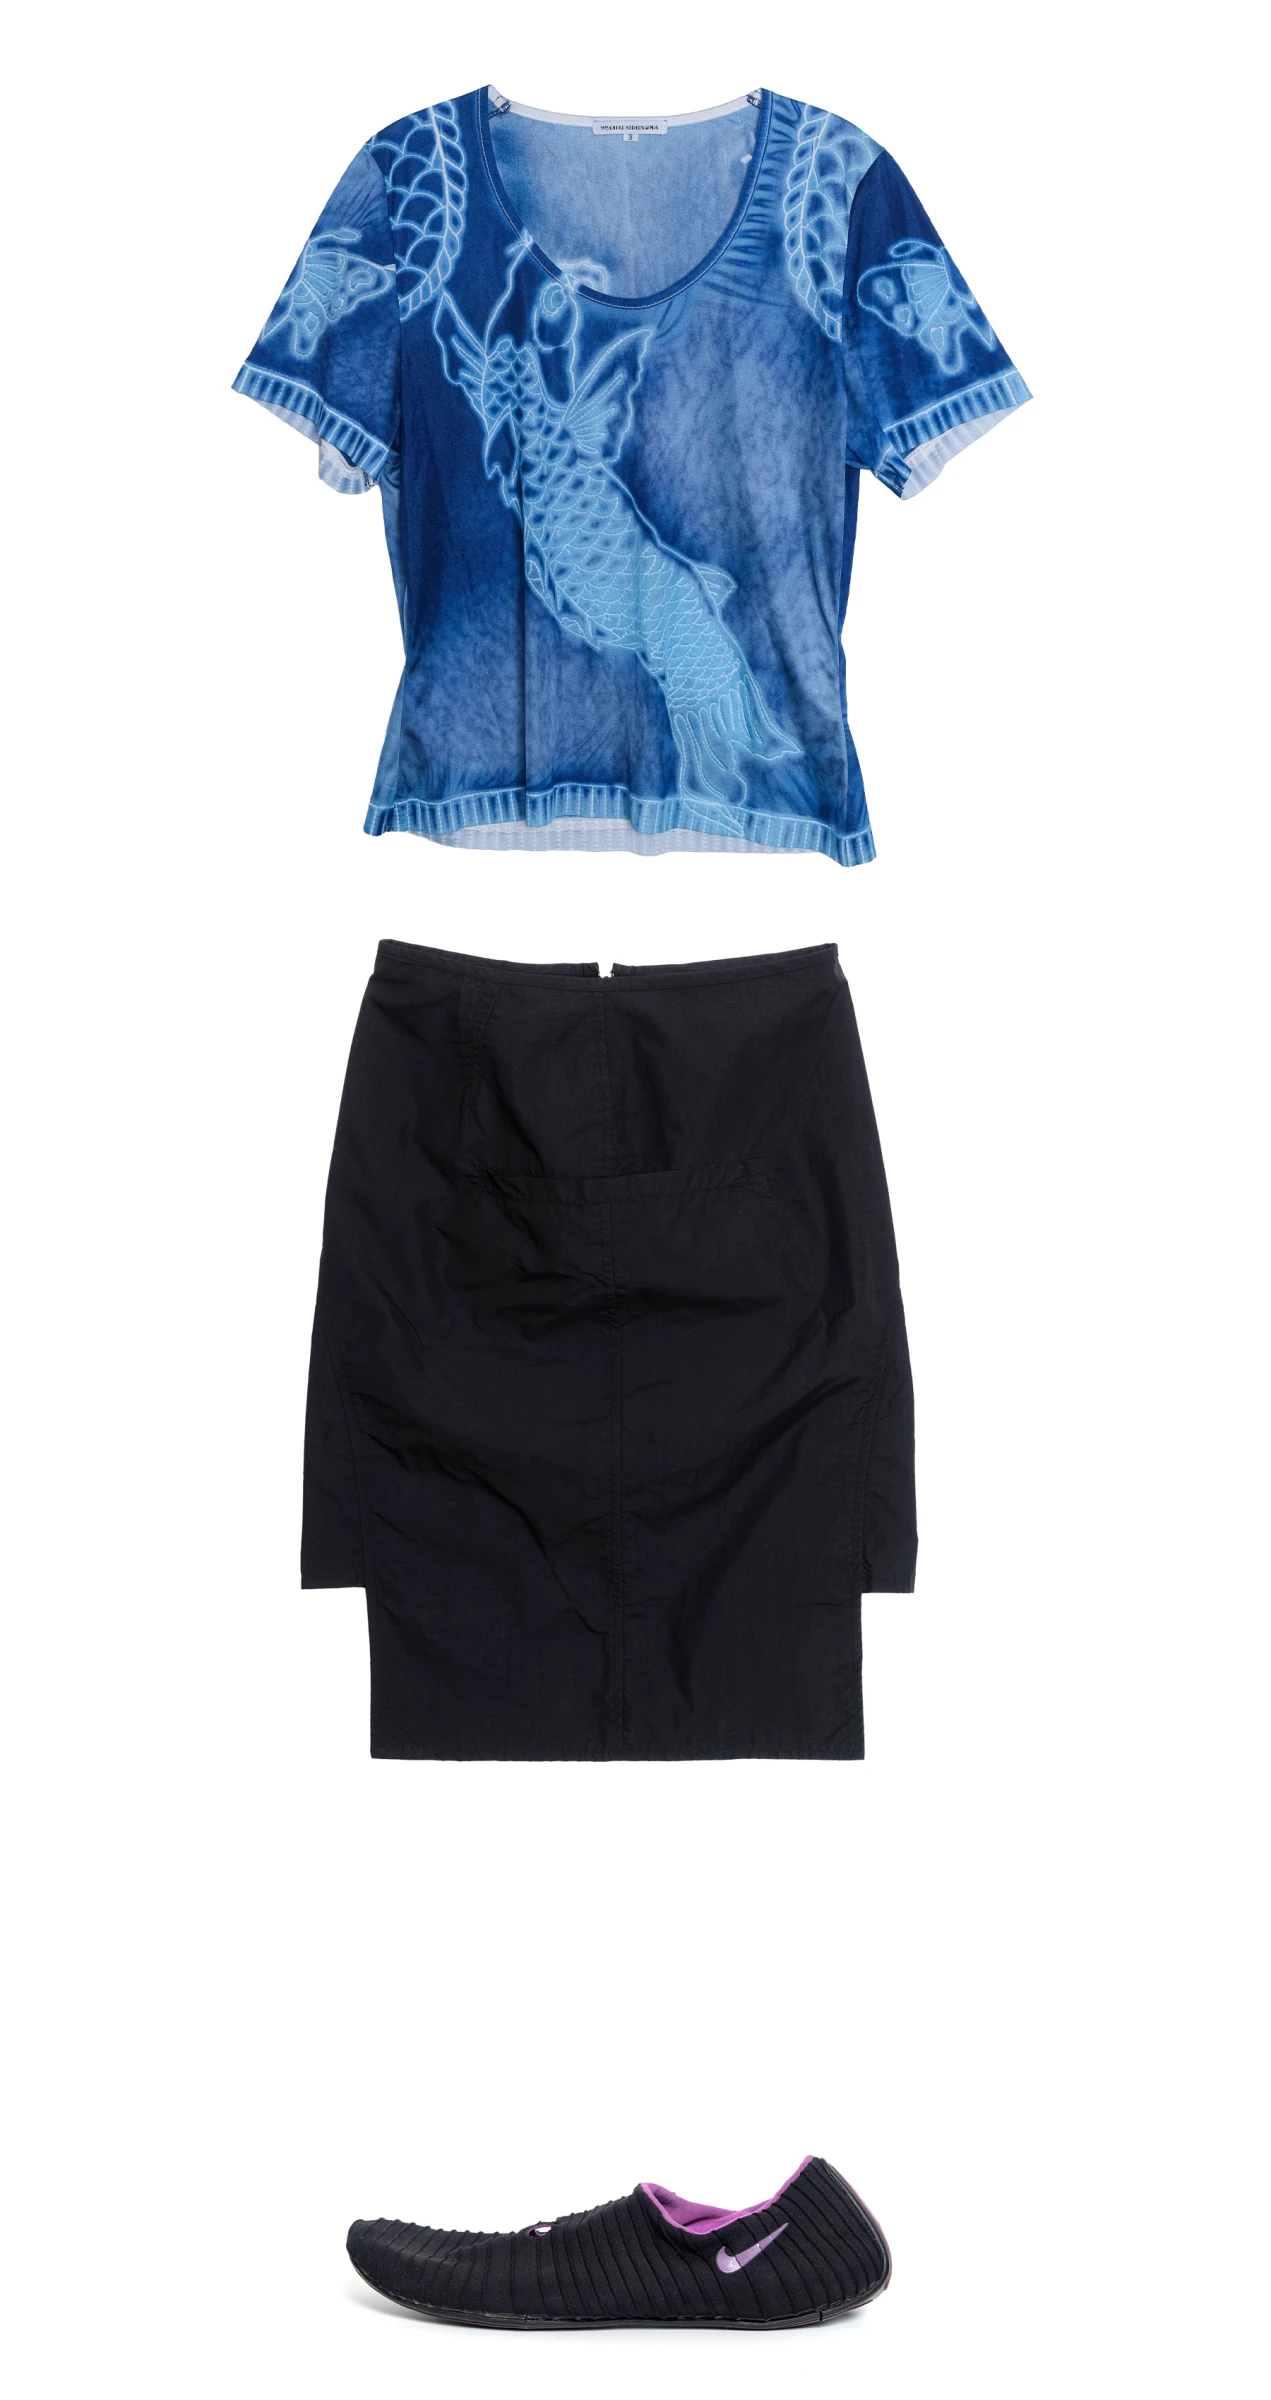
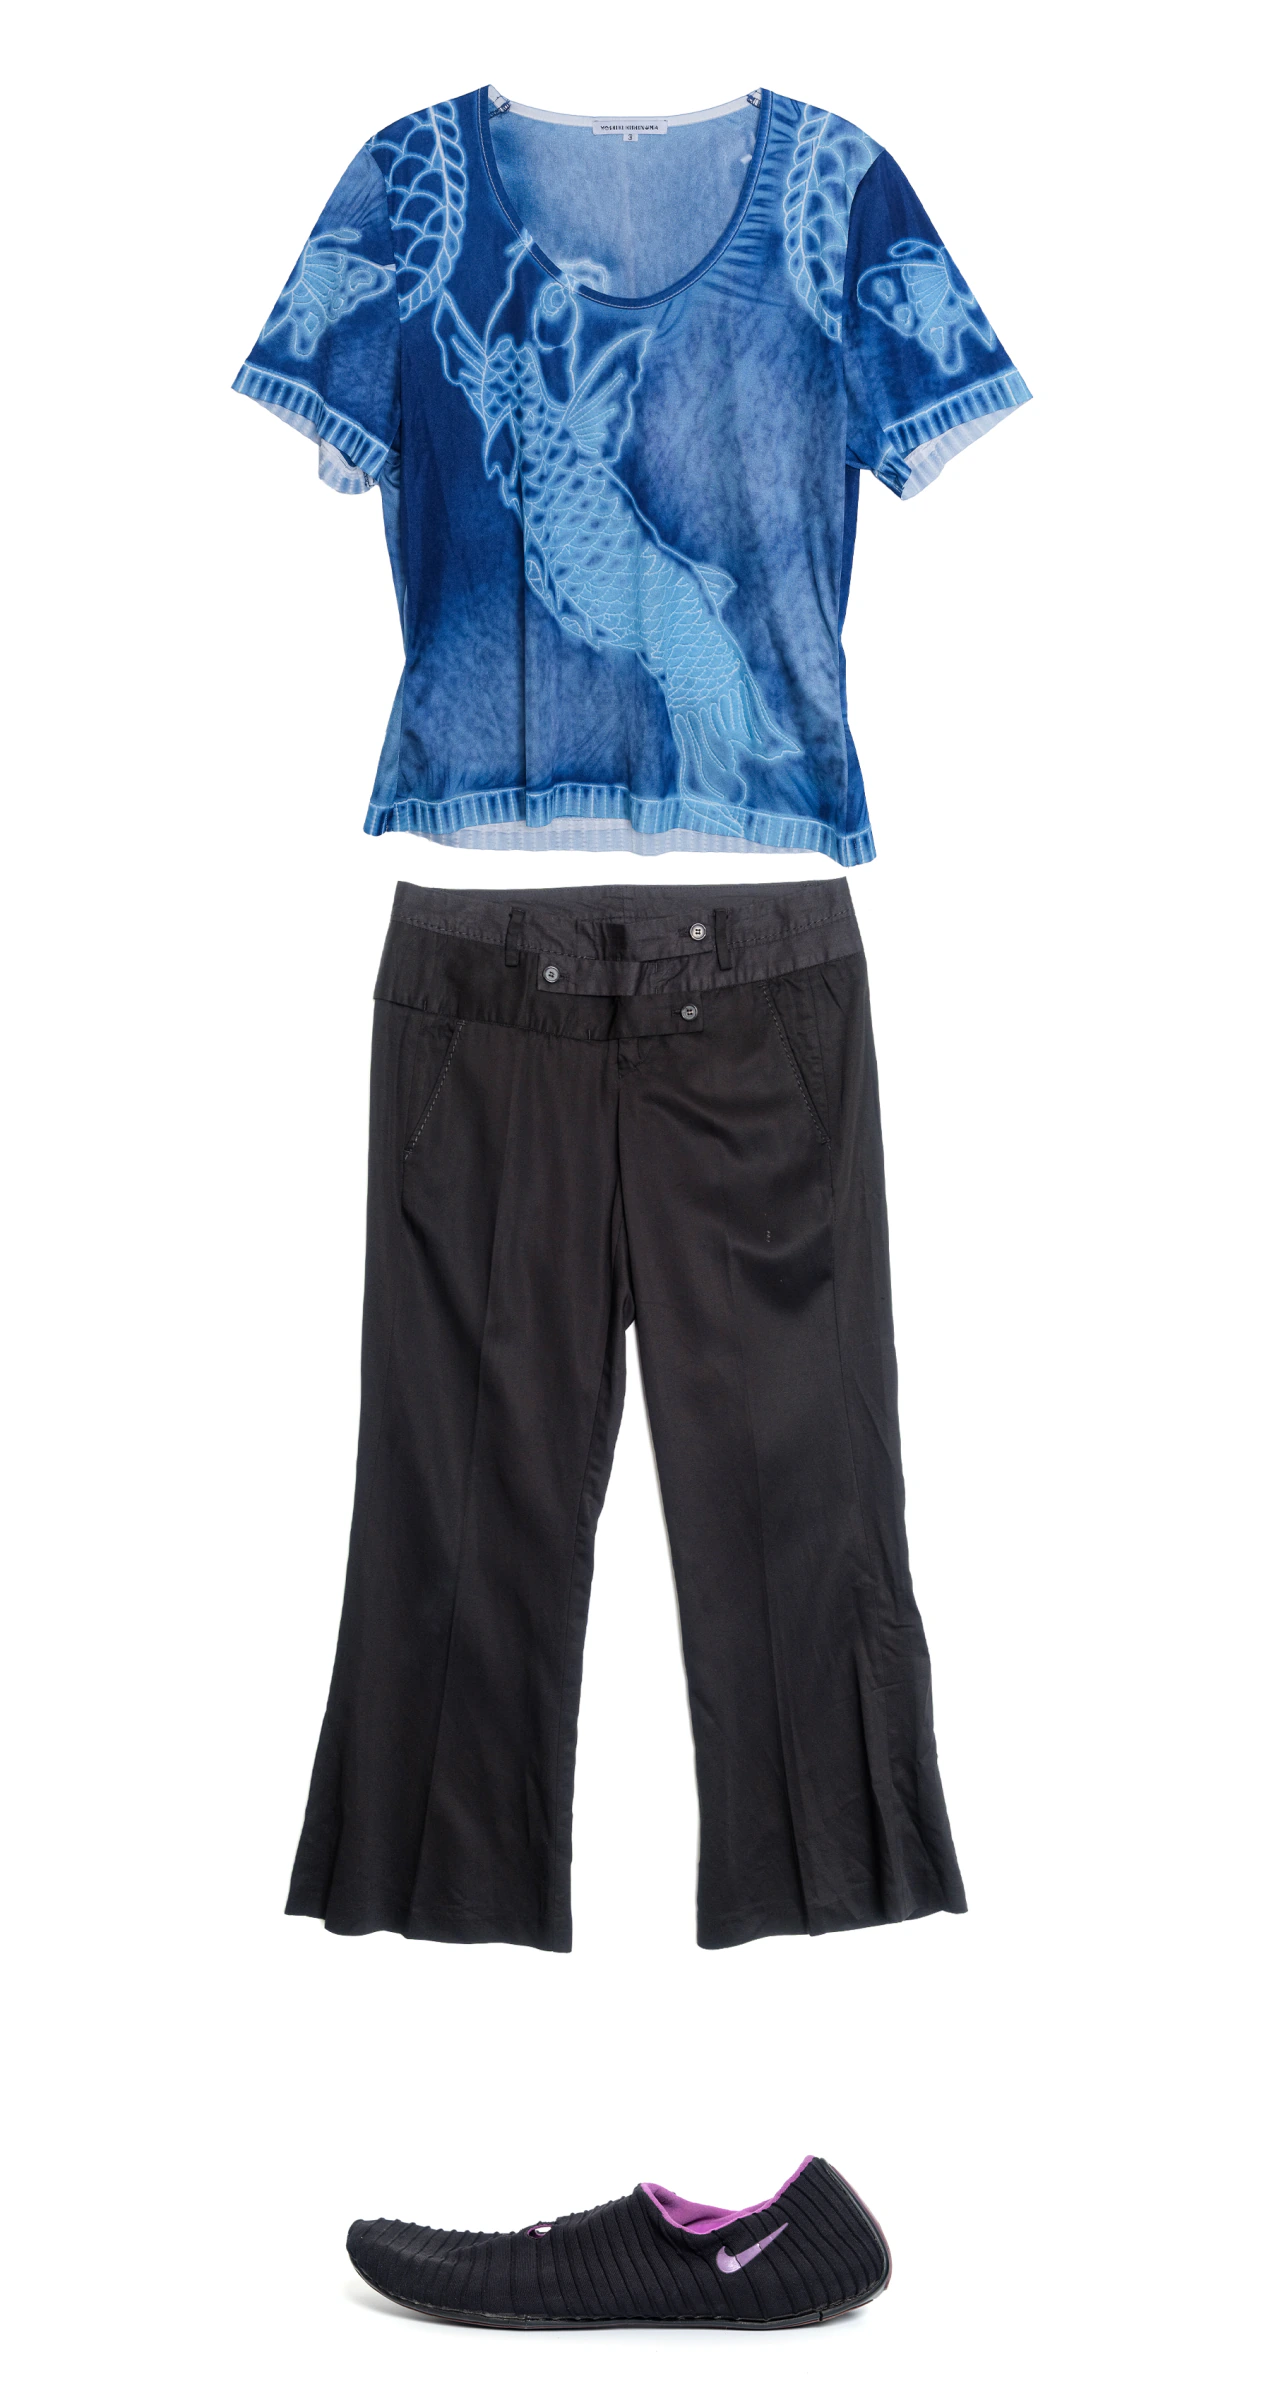
Add final exhibition looks and Safari viewport support

Changed region(s): [[0.2148, 0.3438, 0.7671, 0.8125]]

diff --git a/po3/app.js b/po3/app.js
@@ -39,7 +39,7 @@
           id: "aategois-exhibition",
           look: "03",
           role: "exhibition",
-          image: "./assets/images/looks/aategois-exhibition.webp",
+          image: "./assets/images/looks/aategois-exhibition.webp?v=20260821",
           fallback: "./assets/images/editorial/editorial-04.webp",
           brands: {},
         },
@@ -74,7 +74,7 @@
           id: "hooman-exhibition",
           look: "03",
           role: "exhibition",
-          image: "./assets/images/looks/hooman-exhibition.webp",
+          image: "./assets/images/looks/hooman-exhibition.webp?v=20260821",
           fallback: "./assets/images/editorial/editorial-07.webp",
           brands: {},
         },
@@ -88,7 +88,7 @@
           id: "cementbay-01",
           look: "01",
           role: "editorial",
-          image: "./assets/images/looks/cementbay-01.webp",
+          image: "./assets/images/looks/cementbay-01.webp?v=20260821",
           fallback: "./assets/images/editorial/editorial-07.webp",
           brands: {},
         },
@@ -104,7 +104,7 @@
           id: "cementbay-exhibition",
           look: "03",
           role: "exhibition",
-          image: "./assets/images/looks/cementbay-exhibition.webp",
+          image: "./assets/images/looks/cementbay-exhibition.webp?v=20260821",
           fallback: "./assets/images/editorial/editorial-08.webp",
           brands: {},
         },

diff --git a/po3/styles.css b/po3/styles.css
@@ -10,9 +10,16 @@
   --paper: #fff;
   --muted: #8e898a;
   --edge: rgba(36, 32, 33, 0.22);
+  --viewport-height: 100vh;
   --editorial-column: 40vw;
   --page-pad: clamp(42px, 3.35vw, 86px);
   --shop-pad-x: clamp(72px, 6.5vw, 166px);
+}
+
+@supports (height: 100dvh) {
+  :root {
+    --viewport-height: 100dvh;
+  }
 }
 
 * {
@@ -26,6 +33,10 @@ body {
   margin: 0;
   overflow: hidden;
   overscroll-behavior: none;
+}
+
+html {
+  background: var(--paper);
 }
 
 body {
@@ -54,7 +65,7 @@ button:focus-visible,
   grid-auto-flow: column;
   grid-auto-columns: 100vw;
   width: 100vw;
-  height: 100vh;
+  height: var(--viewport-height);
   overflow-x: auto;
   overflow-y: hidden;
   scroll-snap-type: x mandatory;
@@ -70,7 +81,7 @@ button:focus-visible,
 .screen {
   position: relative;
   width: 100vw;
-  height: 100vh;
+  height: var(--viewport-height);
   overflow: hidden;
   scroll-snap-align: start;
   scroll-snap-stop: always;
@@ -84,7 +95,7 @@ button:focus-visible,
 
 .editorial-rail {
   position: relative;
-  height: 100vh;
+  height: var(--viewport-height);
   overflow-x: hidden;
   overflow-y: auto;
   scroll-snap-type: y mandatory;
@@ -100,7 +111,7 @@ button:focus-visible,
 .editorial-slide {
   position: relative;
   width: 100%;
-  height: 100vh;
+  height: var(--viewport-height);
   margin: 0;
   overflow: hidden;
   scroll-snap-align: start;

diff --git a/po3/index.html b/po3/index.html
@@ -2,9 +2,9 @@
 <html lang="ko">
   <head>
     <meta charset="utf-8" />
-    <meta name="viewport" content="width=device-width, initial-scale=1" />
+    <meta name="viewport" content="width=device-width, initial-scale=1, viewport-fit=cover" />
     <meta name="robots" content="noindex,follow" />
-    <meta name="theme-color" content="#ffffff" />
+    <meta name="theme-color" content="#242021" />
     <meta
       name="description"
       content="3² (power of three), an exhibition by athoce seoul"
@@ -21,7 +21,7 @@
     <meta property="og:url" content="https://athoce.kr/po3/" />
     <meta property="og:image" content="https://athoce.kr/assets/athoce-og.png" />
     <link rel="preload" href="./assets/images/editorial/editorial-01.webp" as="image" />
-    <link rel="stylesheet" href="./styles.css?v=20260819-14" />
+    <link rel="stylesheet" href="./styles.css?v=20260821-16" />
     <title>3² — athoce seoul</title>
   </head>
   <body>
@@ -178,6 +178,6 @@
 
     <div class="page-logo" id="pageLogo" aria-hidden="true"></div>
 
-    <script src="./app.js?v=20260819-15"></script>
+    <script src="./app.js?v=20260821-16"></script>
   </body>
 </html>
